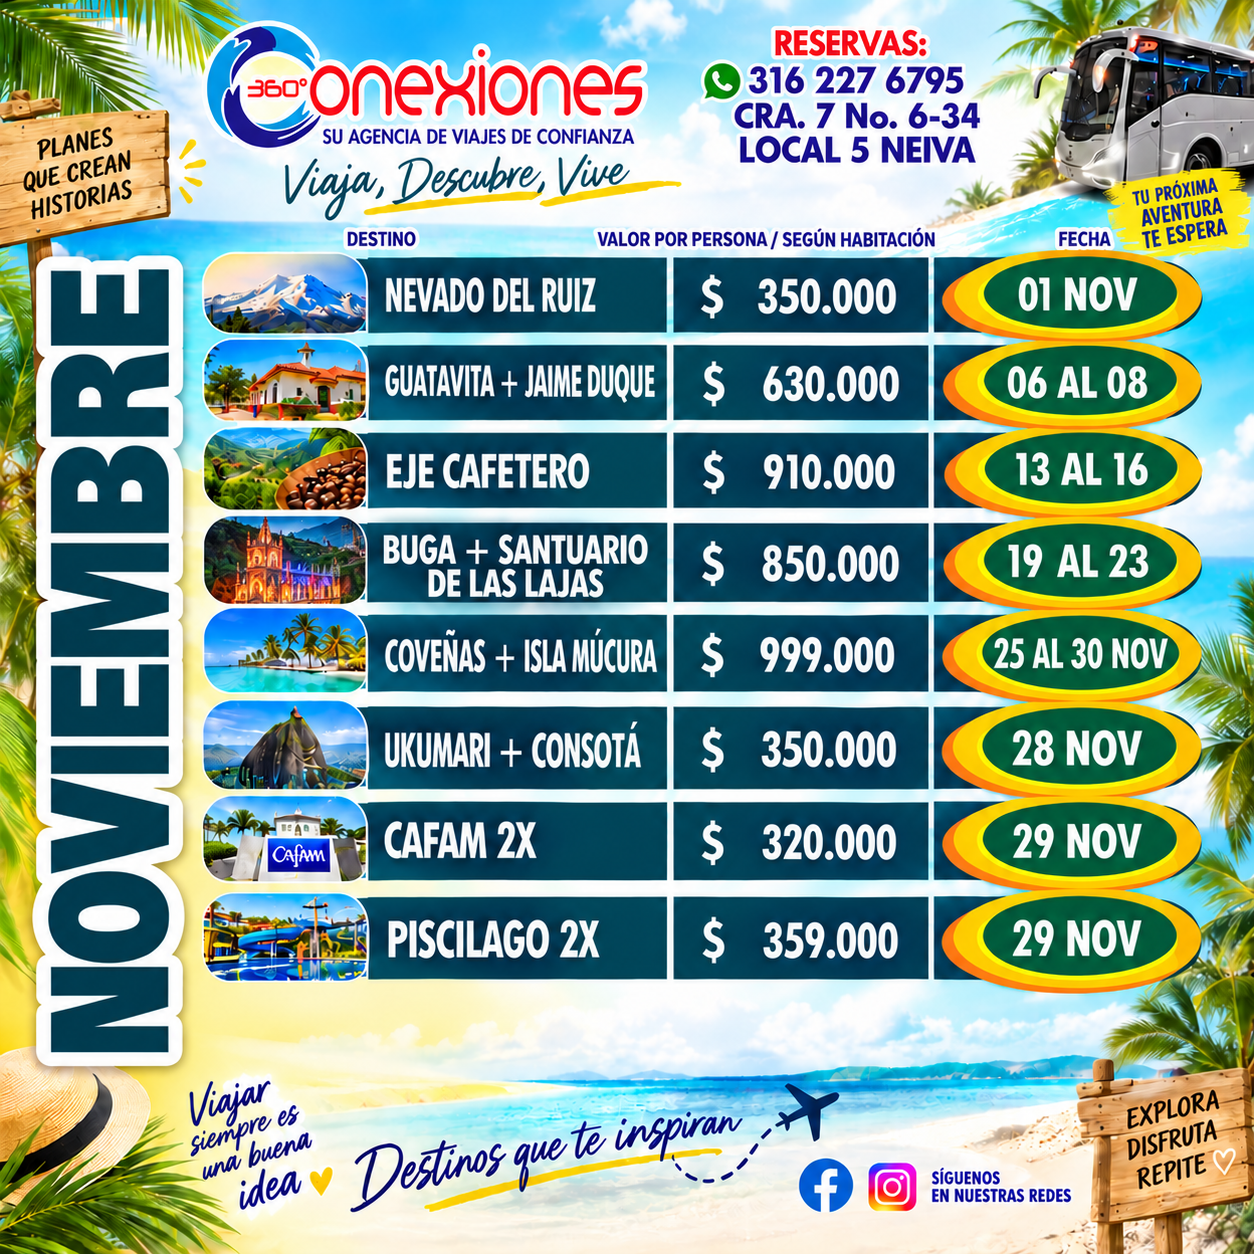
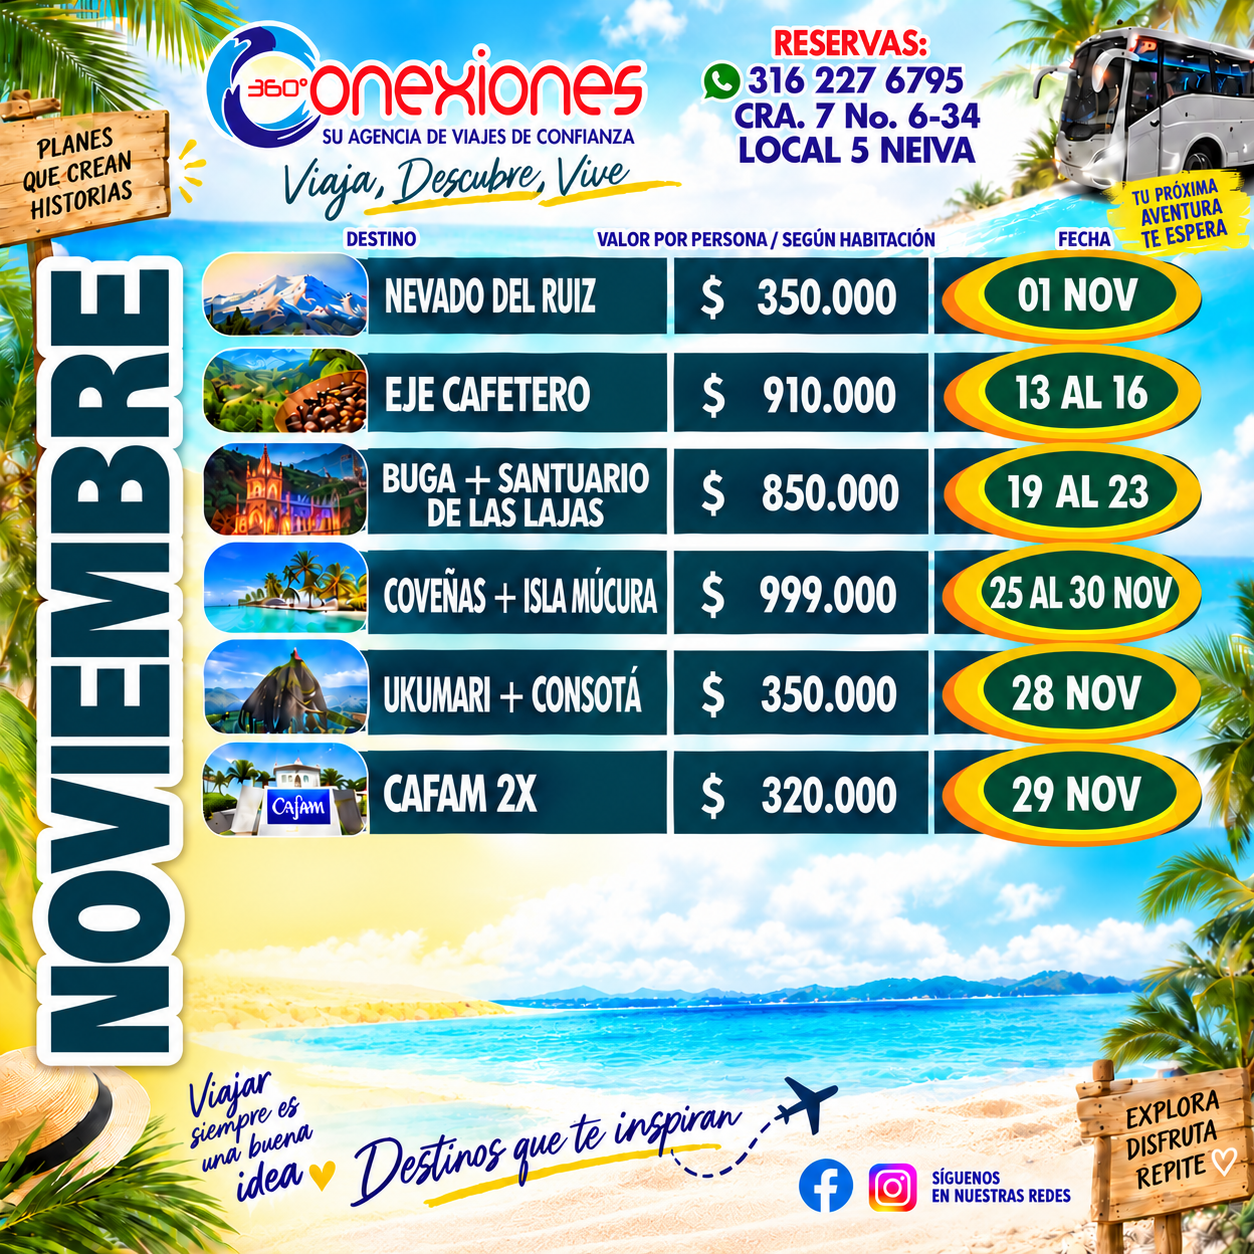
correcion cancun diciembre

diff --git a/src/data/flyers/flyers.ts b/src/data/flyers/flyers.ts
@@ -1368,6 +1368,17 @@ export const flyers: FlyerPlan[] = [
     whatsappBase:
       "Hola Conexiones360, quiero información del plan Cafam Melgar 2X",
   }, 
+                {
+    id: "cancun-diciembre",
+    mes: "diciembre",
+    tipo: "terrestre",
+    titulo: "Excursión Cancún",
+    fechas: ["Diciembre 13 al 17"],
+    precio: 3500000,
+    imagen: "/Diciembre2026/cancun.jpg",
+    whatsappBase:
+      "Hola Conexiones360, quiero información del plan Excursión Cancún",
+  },
               {
     id: "murillo-diciembre",
     mes: "diciembre",
